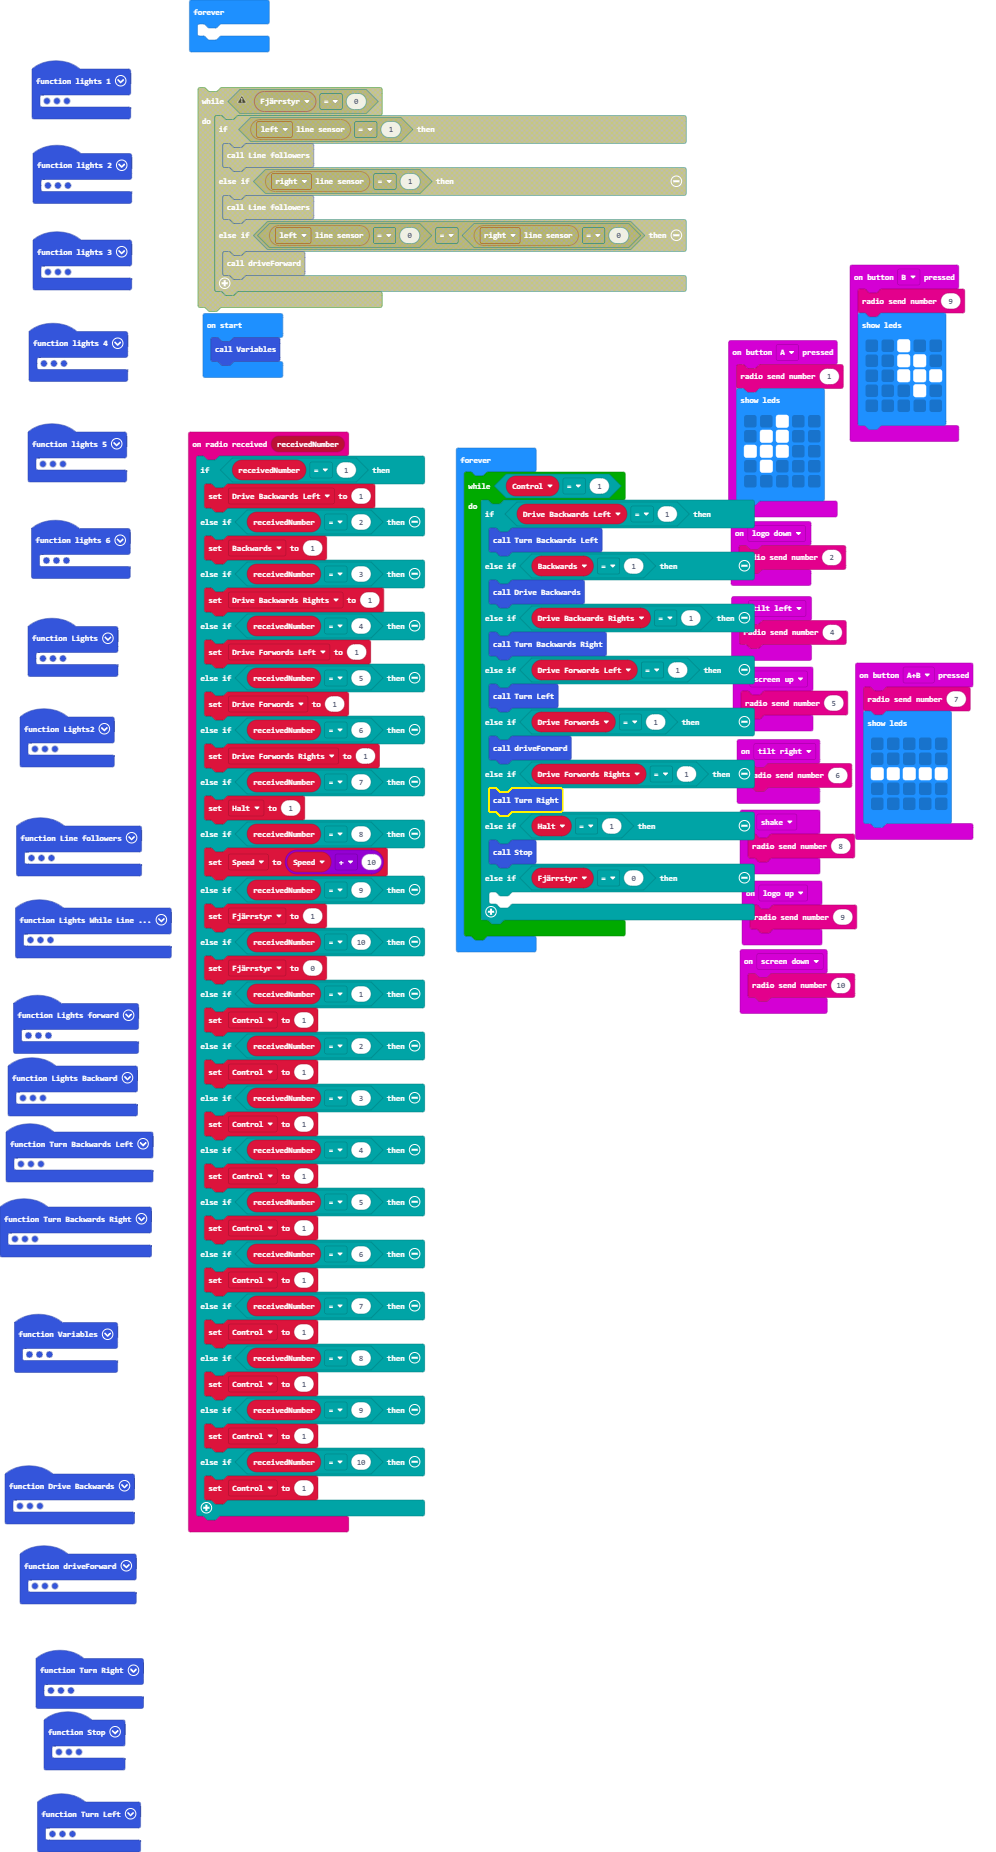
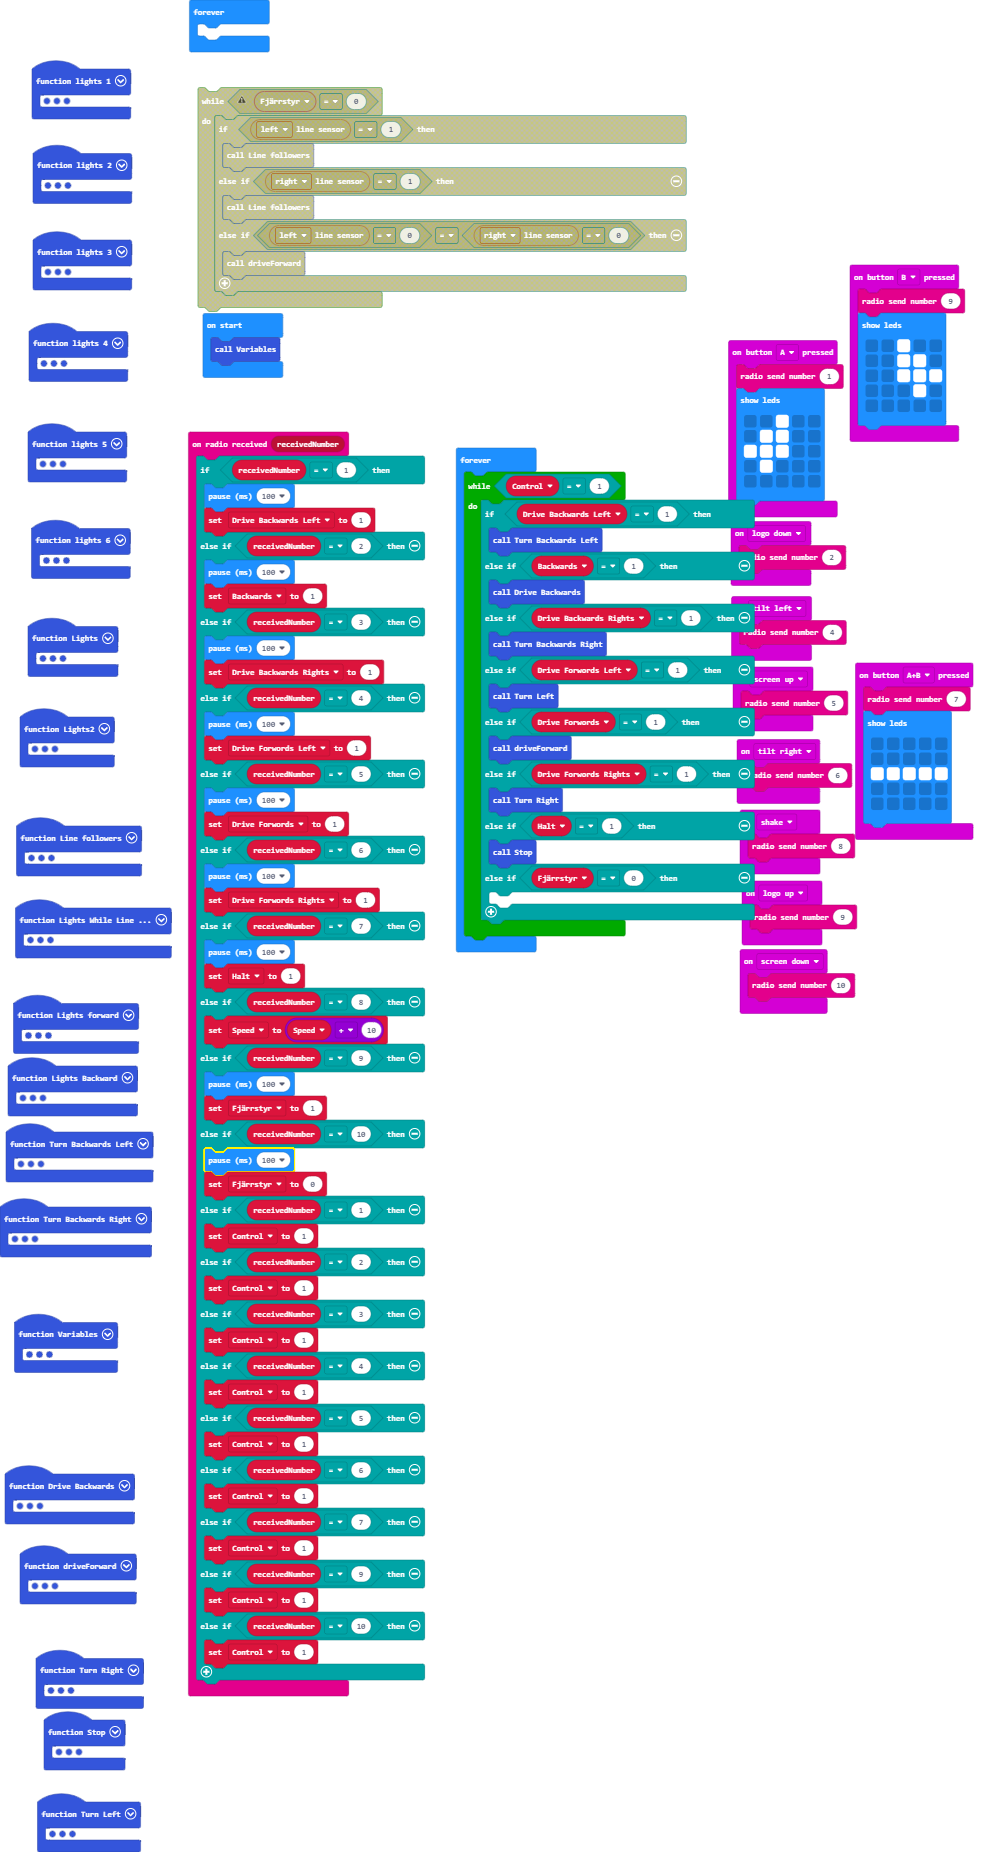
Update main.blocks, main.ts

Changed region(s): [[0.1867, 0.2462, 0.4357, 0.9233]]

diff --git a/main.ts b/main.ts
@@ -51,24 +51,33 @@ function lights_6 () {
 }
 radio.onReceivedNumber(function (receivedNumber) {
     if (receivedNumber == 1) {
+        basic.pause(100)
         Drive_Backwards_Left = 1
     } else if (receivedNumber == 2) {
+        basic.pause(100)
         Backwards = 1
     } else if (receivedNumber == 3) {
+        basic.pause(100)
         Drive_Backwards_Rights = 1
     } else if (receivedNumber == 4) {
+        basic.pause(100)
         Drive_Forwords_Left = 1
     } else if (receivedNumber == 5) {
+        basic.pause(100)
         Drive_Forwords = 1
     } else if (receivedNumber == 6) {
+        basic.pause(100)
         Drive_Forwords_Rights = 1
     } else if (receivedNumber == 7) {
+        basic.pause(100)
         Halt = 1
     } else if (receivedNumber == 8) {
         Speed = Speed + 10
     } else if (receivedNumber == 9) {
+        basic.pause(100)
         Fjärrstyr = 1
     } else if (receivedNumber == 10) {
+        basic.pause(100)
         Fjärrstyr = 0
     } else if (receivedNumber == 1) {
         Control = 1
@@ -83,8 +92,6 @@ radio.onReceivedNumber(function (receivedNumber) {
     } else if (receivedNumber == 6) {
         Control = 1
     } else if (receivedNumber == 7) {
-        Control = 1
-    } else if (receivedNumber == 8) {
         Control = 1
     } else if (receivedNumber == 9) {
         Control = 1
